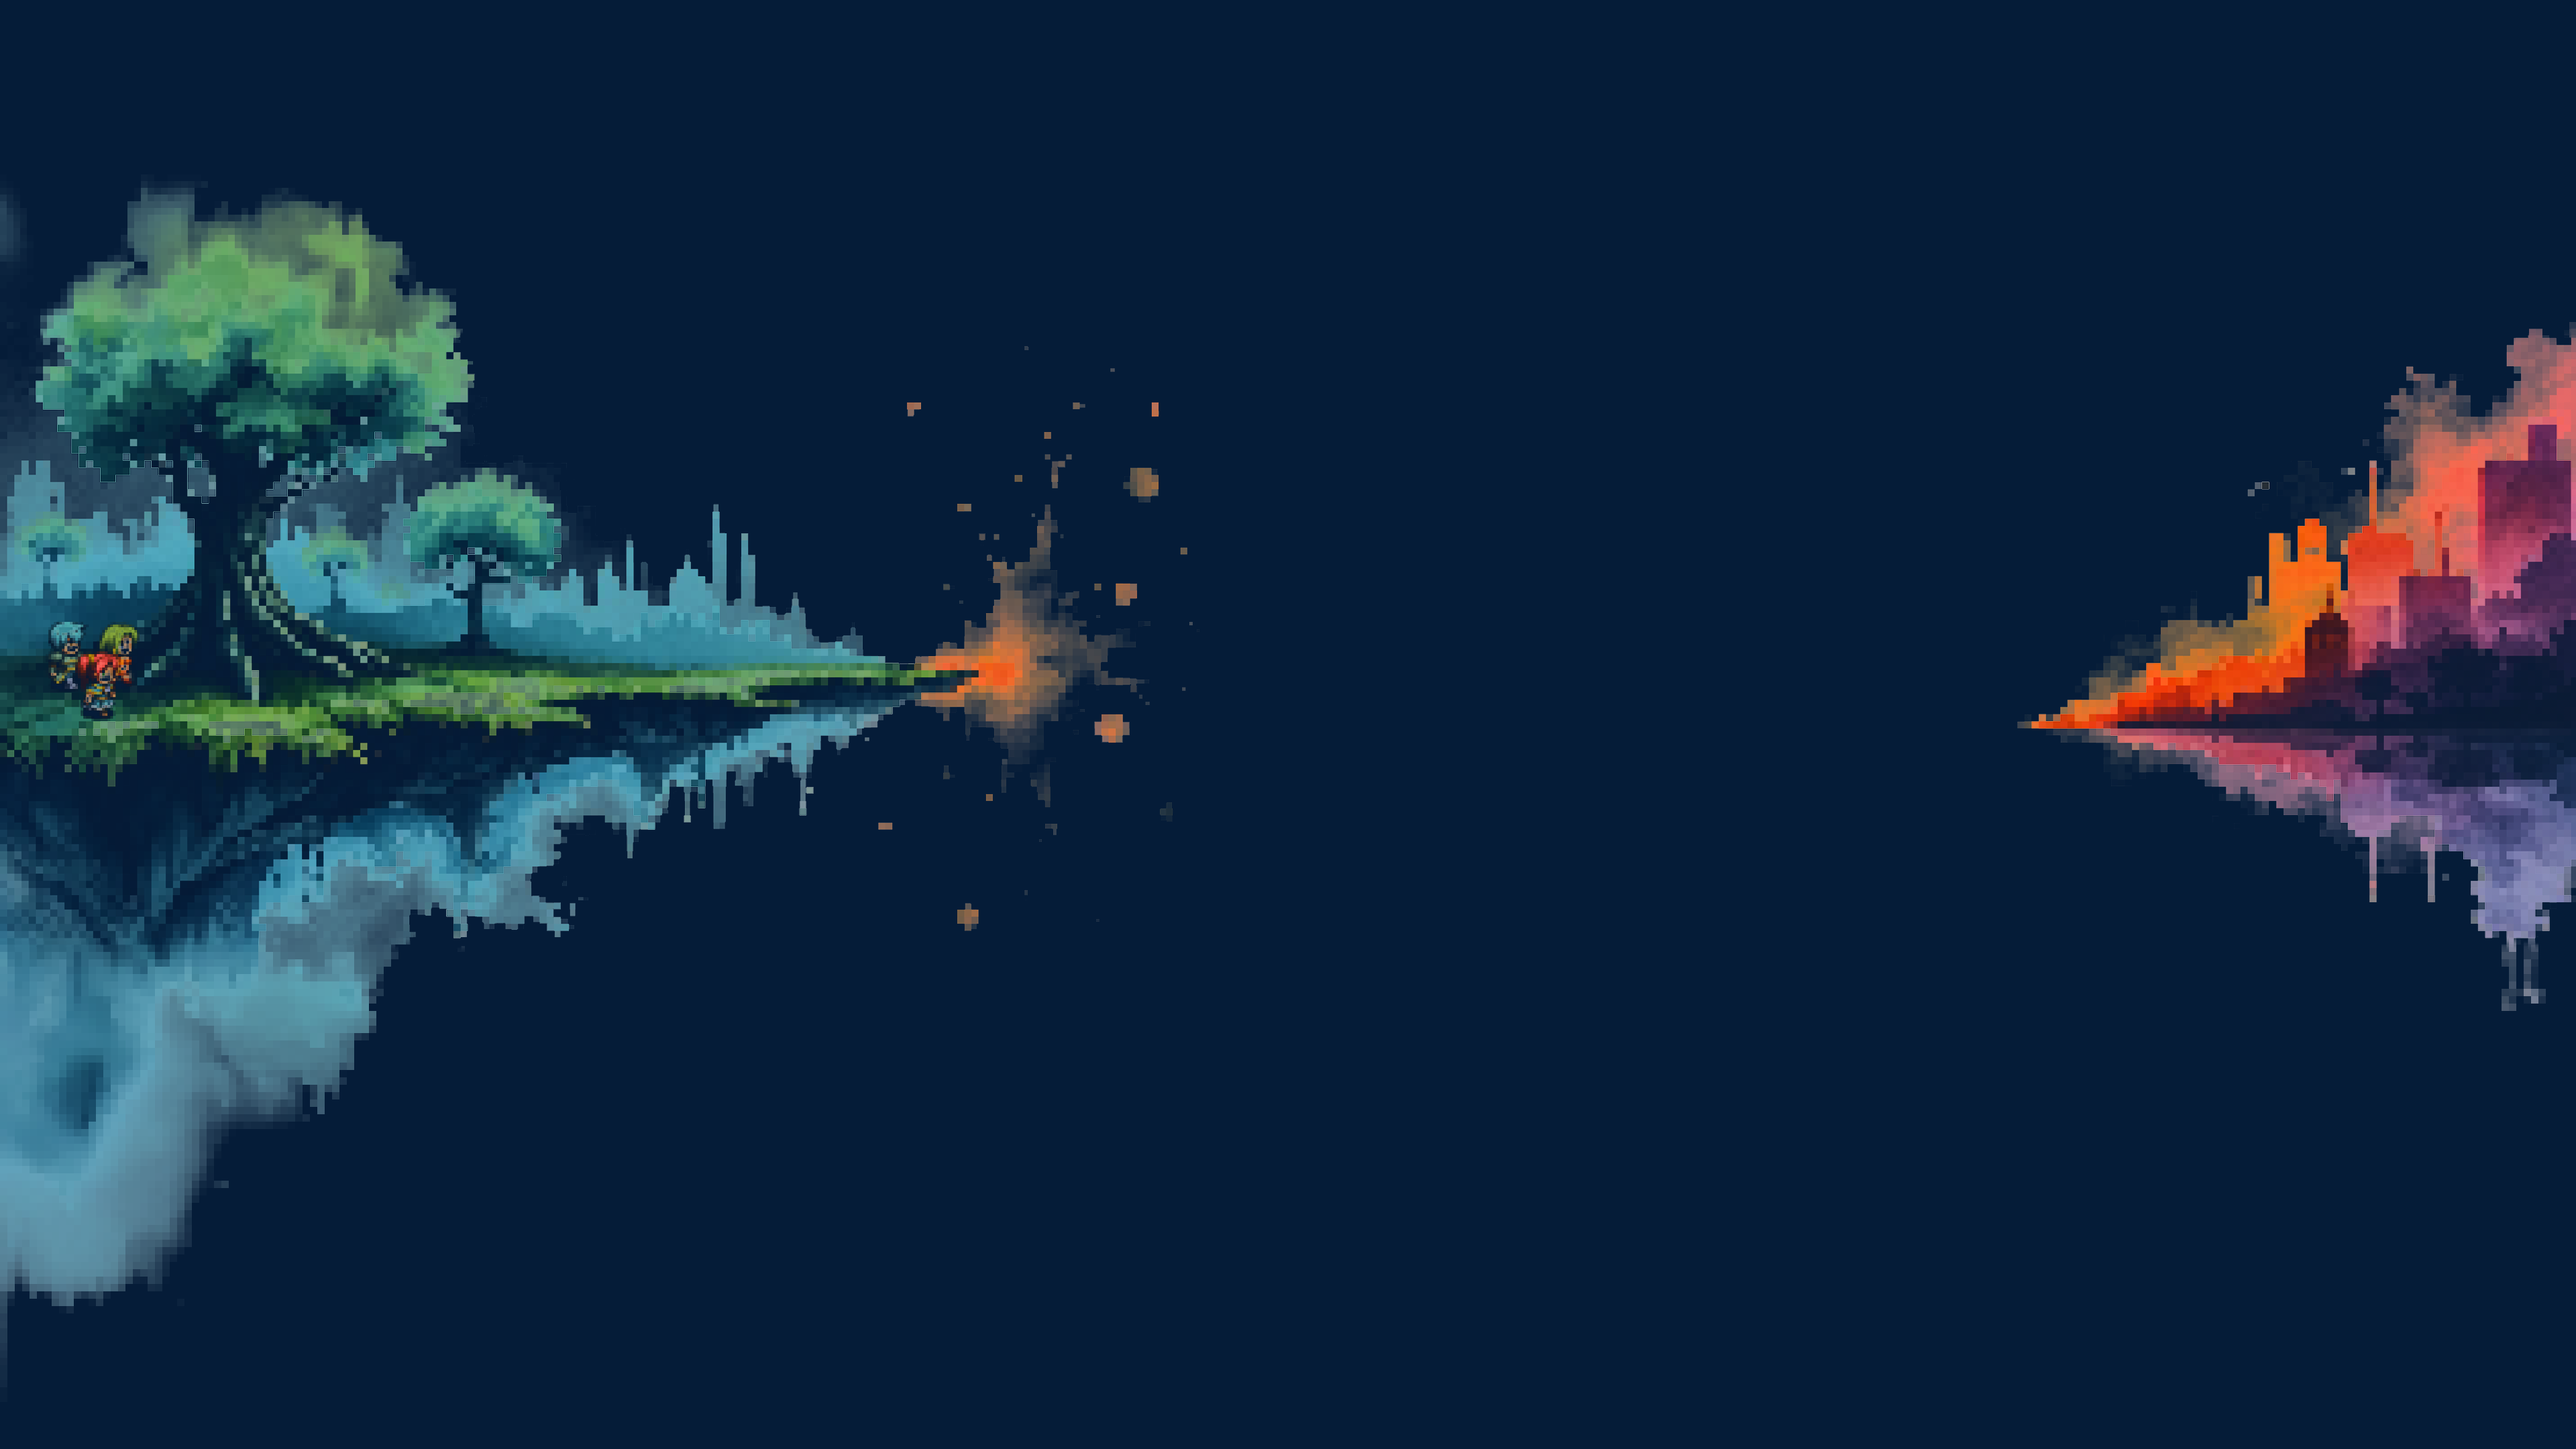
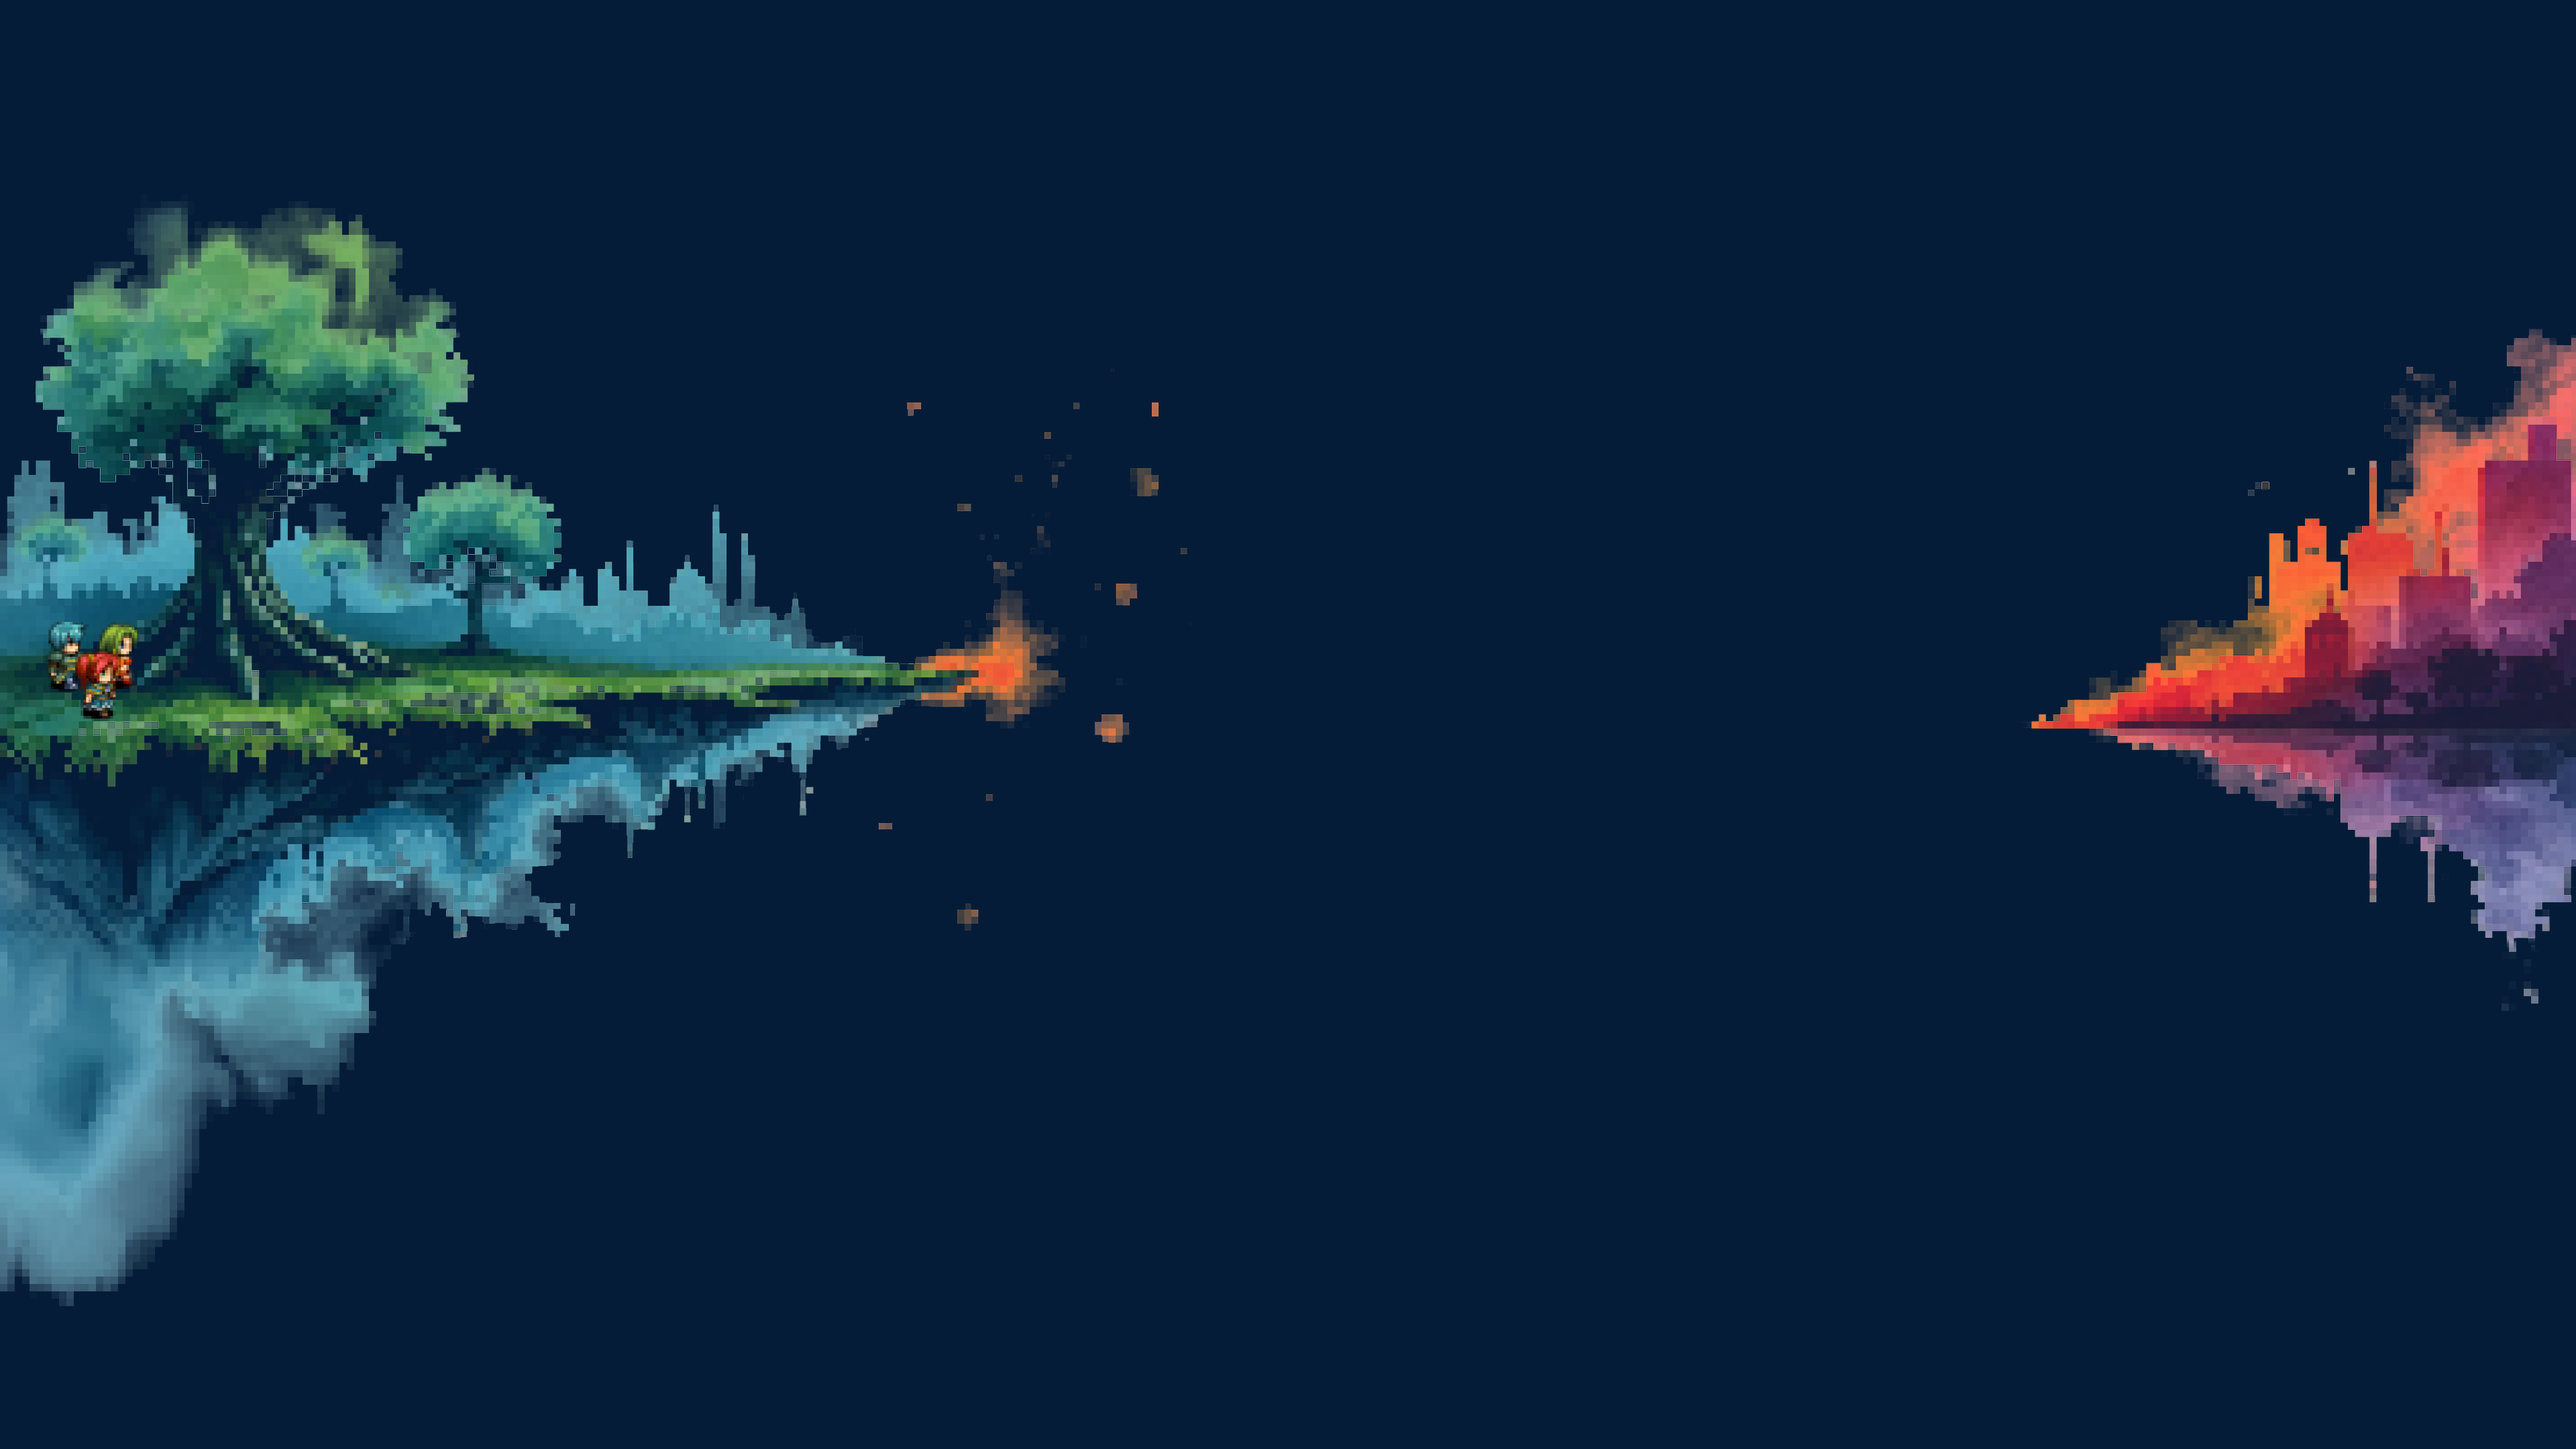
update
bug fixes with theme toggle

diff --git a/style.css b/style.css
@@ -1,6 +1,7 @@
 :root {
     --black: #352f36;
     --muted: #78766f;
+    --shadow: #78766f66;
     --bg: #faf9f1;
     --bgImage: url('images/pxArt.png');
     --card: rgba(248, 245, 239, 0.70);
@@ -20,31 +21,41 @@
     
 
 /* === Dark theme === */
-:root[data-theme="dark"]{
-  --bg: #041326;
-  --bgImage: url('images/pxArt.png');
-  --card: rgba(4, 19, 38, 0.80);
-  --card2: #04132666;
-  --callout: rgba(5, 28, 56, 0.45);
-  --borderLight: #2b2b2f;
-  --borderDark: #3a3a40;
-  --black: #e8e6ee;   /* body text becomes light */
-  --muted: #a6a6b3;
-  --accent: #79d99b;
-  --accent-light: #79d99b33;
-  --link: rgba(121,217,155,0.8);
-  --link-shadow: rgba(121,217,155,0.4);
-  --link-visited: #355437;
-  --link-hover: #dff0d8;
-  --crt: #1d324b;
-  --toc: rgba(4, 19, 38, 0.97);
-}
+  :root[data-theme="dark"]{
+    --bg: #041326;
+    --bgImage: url('images/pxArtDark.png');
+    --card: rgba(4, 19, 38, 0.80);
+    --card2: #04132666;
+    --callout: rgba(5, 28, 56, 0.45);
+    --borderLight: #051c38;
+    --borderDark: #1d324b;
+    --black: #e8e6ee;   /* body text becomes light */
+    --muted: #a6a6b3;
+    --shadow: #a6a6b355;
+    --light: #e7e9ec;
+    --accent: #79d99b;
+    --accent-light: #79d99b33;
+    --link: rgba(121,217,155,0.8);
+    --link-shadow: rgba(121,217,155,0.4);
+    --link-visited: #355437;
+    --link-hover: #dff0d8;
+    --crt: #1d324b;
+    --toc: rgba(4, 19, 38, 0.97);
+  }
   /* Switch sizing */
   .theme-toggle {
-    --h: 26px;             /* height */
-    --w: 50px;             /* width of the track */
+    --h: 28px;             /* height */
+    --w: 52px;             /* width of the track */
     --pad: 2px;            /* inner padding */
-    --thumb: calc(var(--h) - 3*var(--pad));
+    --thumb: calc(var(--h) - 2*var(--pad));
+    --inset-shadow-width: calc(var(--h) * .13);
+    --inset-dark-shift: calc(var(--h) * .1);
+    --border-spacing: calc(var(--h) * .08);
+    --transition-spacing: calc(var(--h) * .062);
+    --track-padding-vertical: calc(var(--h) * .05);
+    --track-padding-horizontal: calc(var(--h) * .042);
+    --roll: 0deg;
+    --speed: 300ms;
     display:inline-block;
   }
 
@@ -58,7 +69,6 @@
     white-space:nowrap; 
     border:0; 
     padding:0; 
-    margin:-1px;
   }
 
   /* Track */
@@ -69,53 +79,85 @@
     height:var(--h);
     border-radius:999px;
     background: var(--card);
-    border:1px solid var(--borderLight);
-    box-shadow: inset 0 1px 2px var(--black);
+    border:0px solid var(--borderLight);
+    box-shadow: inset 0 1px 2px var(--shadow);
     cursor:pointer;
   }
 
-  /* Optional subtle sheen */
   .theme-toggle .track {
     position:absolute; 
     inset:0;
     border-radius:inherit;
-    background-image: radial-gradient(at 55% 75%, var(--callout) 55%, var(--muted) 185%); 
+    background: radial-gradient(at 55% 150%, var(--callout) 45%, var(--shadow) 225%);
+    box-shadow: inset 0 var(--border-spacing) var(--inset-shadow-width) var(--shadow);
+    /* FIX: add commas between properties */
   }
+  .theme-toggle .track:before { 
+    content: ""; 
+    position: absolute; 
+    inset: 0;
+    filter: blur(1px); 
+    opacity: .15; 
+    border-radius: inherit; 
+    z-index: 0; 
+    background: linear-gradient(0deg, var(--bg) 25%, var(--shadow) 80%); 
+    mask: linear-gradient(var(--bg) 0 0) content-box, linear-gradient(var(--bg) 0 0); 
+  }
+
 
   /* Thumb */
   .theme-toggle .thumb {
     position:absolute;
-    left:var(--pad);
-    top:var(--pad);
-    width:var(--thumb); 
-    height:var(--thumb);
-    border-radius:50%;
-    background: radial-gradient(circle at 55% 55%, var(--bg) 55%, var(--muted) 80%);
-    border:1px solid var(--borderLight);
+    left: var(--pad);
+    top: var(--pad);
+    width: var(--thumb); 
+    height: var(--thumb);
+    border-radius: 50%;
+    background: radial-gradient(circle at 55% 55%, var(--bg) 55%, var(--shadow) 80%);
+    border: 0px solid var(--borderLight);
     display:grid; place-items:center;
-    box-shadow: 0 1px 2px var(--muted);
-    transition: transform .28s cubic-bezier(.2,.8,.2,1), 
-                background .2s, 
-                border-color .2s, 
-                box-shadow .2s;
-    will-change: transform;
+    box-shadow: -1px 2px 4px var(--shadow);
+    /* FIX: only list properties, not transform functions */
+    transition: transform var(--speed) cubic-bezier(.4,0,.2,1),
+                background var(--speed),
+                border-color var(--speed),
+                box-shadow var(--speed);
+    /* The transform itself lives here and in the checked-state rule (below) */
+    transform: translateX(0) rotate(var(--roll));
+  }
+  .theme-toggle .thumb::before { 
+    content: ""; 
+    position: absolute; 
+    inset: 3px; 
+    opacity: .85; 
+    filter: blur(1px); 
+    border-radius: inherit; 
+    padding: var(--transition-spacing); 
+    background: linear-gradient(0deg, var(--bg) 25%, var(--shadow) 80%); 
+    mask: linear-gradient(var(--bg) 0 0) content-box, linear-gradient(var(--bg) 0 0); 
   }
 
   /* Icons inside the thumb */
-  .theme-toggle .icon{ 
+  .theme-toggle .icon { 
     position:absolute; 
-    font-size: 14px; 
+    font-size: 12px; 
     line-height:1;
-    transition: transform .25s ease, opacity .2s ease;
+    /* Counter-rotate by --roll; per-icon tilt via --tilt */
+    transform: rotate(calc(-1 * var(--roll) + var(--tilt, 0deg))) scale(var(--scale, 1));
+    /* FIX: add a transition so they animate */
+    transition: transform var(--speed) cubic-bezier(.4,0,.2,1), opacity var(--speed) cubic-bezier(.4,0,.2,1);
   }
-  .theme-toggle .sun { 
-    opacity:1; 
-    transform: rotate(0) scale(1); 
+  .theme-toggle .sun  {
+    color: var(--muted);  
+    opacity: 1; 
+    --scale: 1; /* --tilt: 0deg (default) */ 
   }
   .theme-toggle .moon { 
-    opacity:0; 
-    transform: rotate(-45deg) scale(.5); 
+    opacity: 0; 
+    --scale: .5; 
+    --tilt: 45deg; 
   }
+
 
   /* Focus ring */
   .theme-toggle input:focus-visible + label {
@@ -123,16 +165,24 @@
     outline-offset: 2px;
   }
 
-  /* ON state (dark) — slide + roll the thumb */
-  .theme-toggle input:checked + label .thumb {
-    transform: translateX(calc(var(--w) - var(--thumb) - 2*var(--pad))) rotate(180deg);
-  }
-  .theme-toggle input:checked + label .sun { opacity:0; transform: rotate(45deg) scale(.5); }
-  .theme-toggle input:checked + label .moon { opacity:1; transform: rotate(0) scale(1); }
+  /* ON state */
+  .theme-toggle input:checked + label { --roll: 180deg; }
 
-  /* Respect reduced motion */
+  .theme-toggle input:checked + label .thumb {
+    transform: translateX(calc(var(--w) - var(--thumb) - 2*var(--pad))) rotate(var(--roll));
+  }
+
+  .theme-toggle input:checked + label .track {
+    transform: rotate(180deg);
+  }
+
+  /* Animate icon swap using vars (don't override transform directly) */
+  .theme-toggle input:checked + label .sun  { opacity: 0; --scale: .5; }
+  .theme-toggle input:checked + label .moon { opacity: 1; --scale: 1; }
+
+  /* Reduced motion */
   @media (prefers-reduced-motion: reduce){
-    .theme-toggle .thumb, .theme-toggle .icon { transition:none; }
+    .theme-toggle .thumb, .theme-toggle .icon, .theme-toggle .track { transition: none; }
   }
 
 
@@ -874,12 +924,10 @@
     }
     .callout { 
       border-left: 3px solid var(--accent); 
-      padding:12px 8px; 
       border-radius: 8px; 
       margin: 6px 0;
     }
     .tip { 
-      padding:12px 8px; 
       margin: 6px 0;
     }
     .page {

diff --git a/theme.js b/theme.js
@@ -27,7 +27,7 @@
     apply(now === 'dark' ? 'light' : 'dark');
   });
 
-  // if you want to react to OS changes only when user hasn't chosen manually:
+  // React to OS changes only when user hasn't chosen manually:
   const mm = window.matchMedia('(prefers-color-scheme: dark)');
   mm.addEventListener('change', (e) => {
     if (!localStorage.getItem('theme')) apply(e.matches ? 'dark' : 'light');
